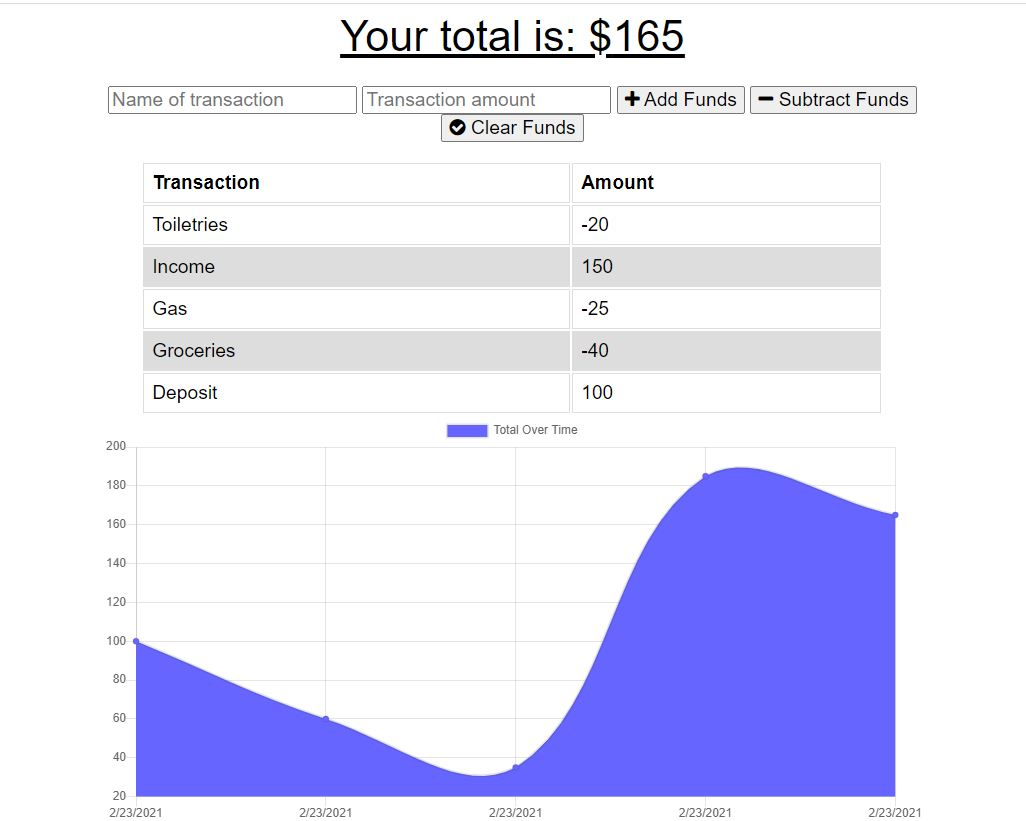
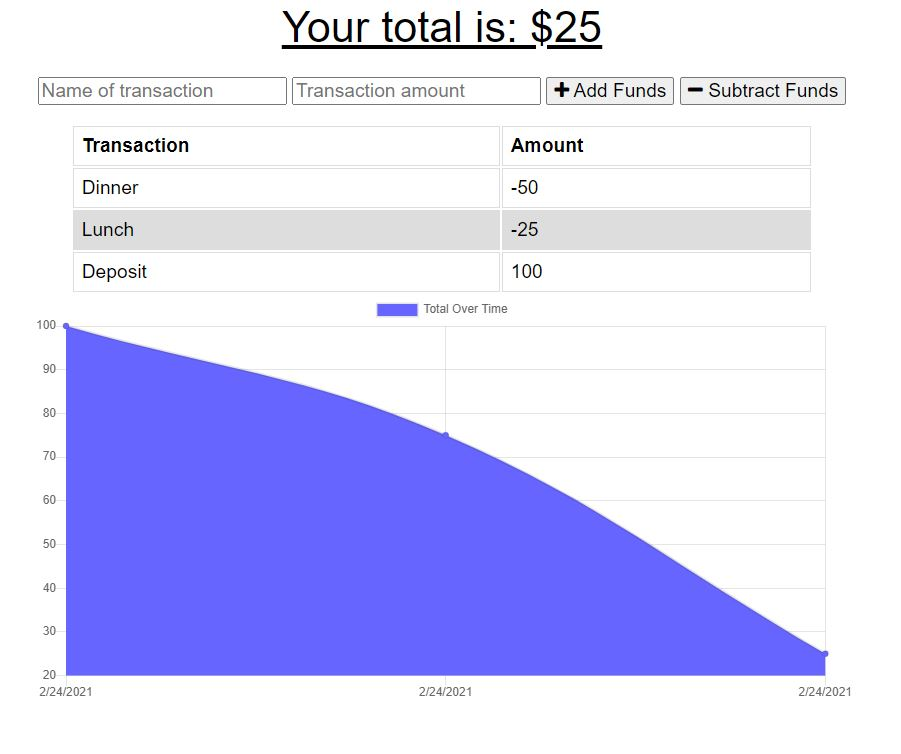
removed clear budget button and api

diff --git a/public/index.js b/public/index.js
@@ -143,41 +143,12 @@ function sendTransaction(isAdding) {
   });
 }
 
-// clearTransactions - clear budget and reset to zero
-function clearTransactions() {
-  // clear local transactions
-  transactions = [];
-  console.log(transactions);
-
-  // send to server
-  fetch("/api/clear", {
-    method: 'DELETE'
-  })
-  .then((response) => {
-    return response.json();
-  })
-  .then((data) => {
-    transactions = [];
-    populateTotal();
-    populateTable();
-    populateChart();
-  })
-  .catch((err) => {
-    console.log("Clear error: " + err);
-  })
-}
-
 document.querySelector("#add-btn").onclick = function() {
-  event.preventDefault(); // do i need this?
   sendTransaction(true);
 };
 
 document.querySelector("#sub-btn").onclick = function() {
-  event.preventDefault(); // do i need this?
   sendTransaction(false);
 };
 
-document.querySelector('#clear-btn').onclick = function() {
-  event.preventDefault();
-  clearTransactions();
-}
+

diff --git a/routes/api.js b/routes/api.js
@@ -31,15 +31,4 @@ router.get("/api/transaction", (req, res) => {
     });
 });
 
-router.delete("/api/clear", (req, res) =>
-{
-  Transaction.deleteMany({})
-  .then(dbTransaction => {
-    res.json(dbTransaction);
-  })
-  .catch(err => {
-    res.status(400).json(err);
-  });
-});
-
 module.exports = router;

diff --git a/public/index.html b/public/index.html
@@ -39,9 +39,6 @@
         <button id="sub-btn">
           <i class="fa fa-minus"></i> Subtract Funds
         </button>
-        <button id="clear-btn">
-          <i class="fa fa-check-circle"></i> Clear Funds
-        </button>
         <p class="error"></p>
       </div>
 

diff --git a/README.md b/README.md
@@ -14,7 +14,7 @@
 ## Description
 This application is a budget tracker for users to track their expenses and deposits whether online or offline. When entering transaction offline, the transactions will populate the total when brought back online.
 
-For this assignment, the front end code `Develop` folder was provided and I created the db.js file to capture transactions offline. Also, I added a clear budget button and functionality.
+For this assignment, the front end code `Develop` folder was provided and I created the db.js file to capture transactions offline. 
 
 ## Links
 * Live Website: https://seattlesal-budget-tracker.herokuapp.com/
